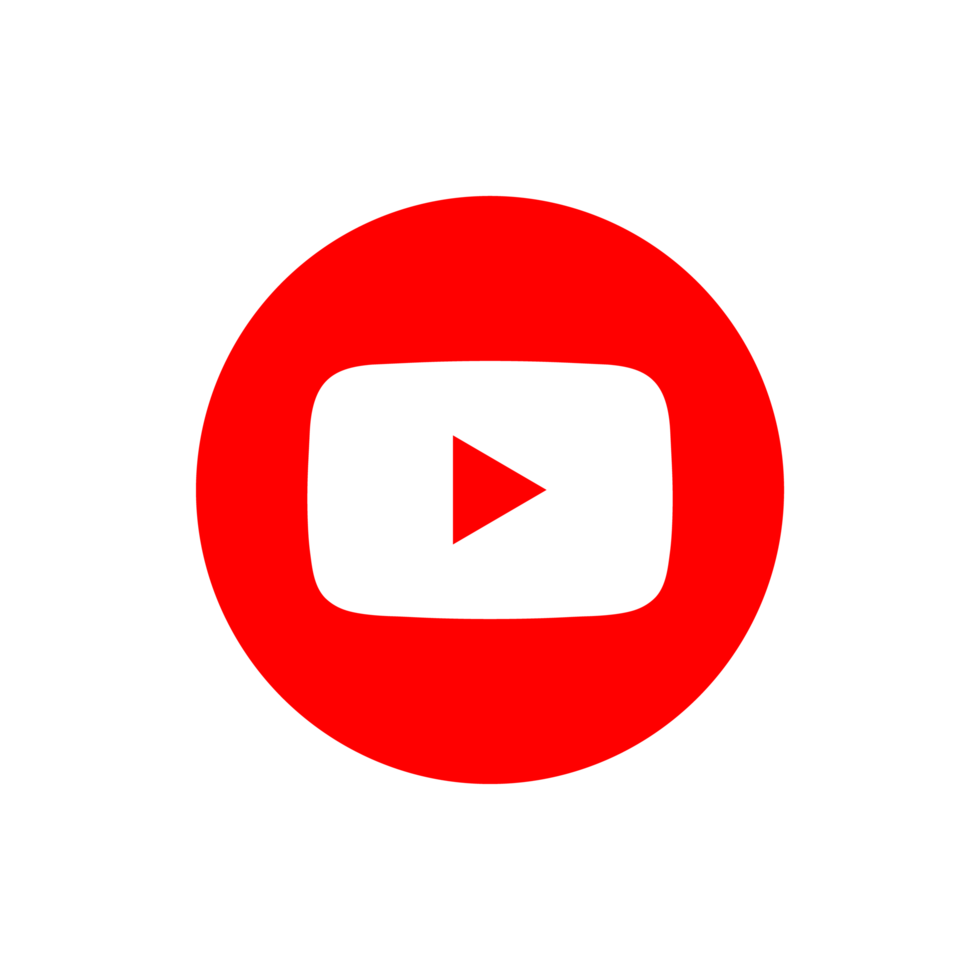
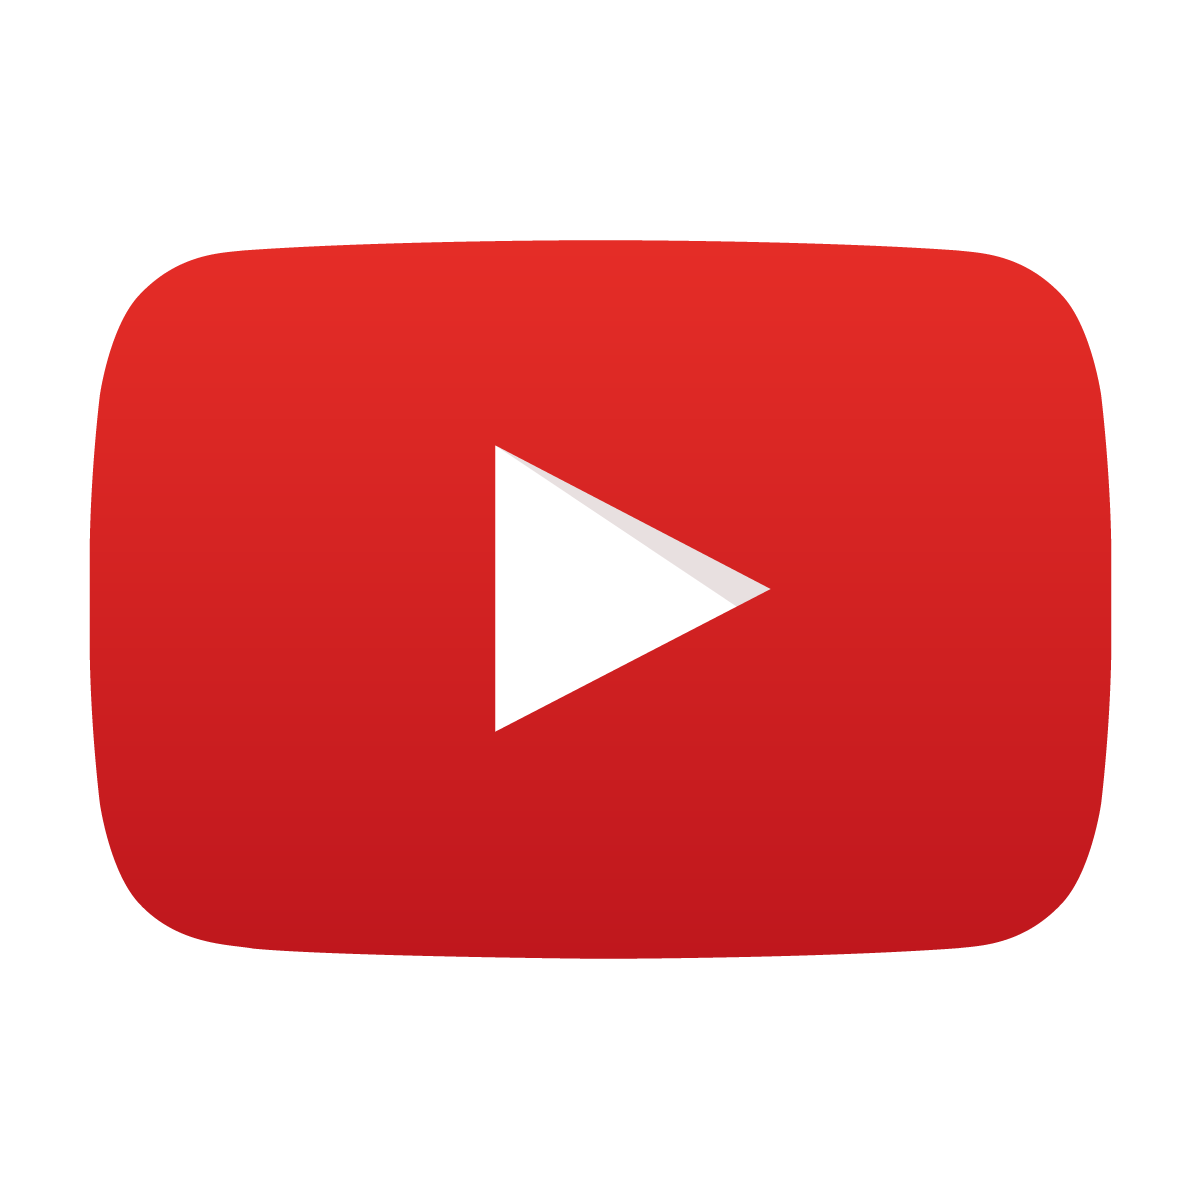
add crew

diff --git a/src/components/_team.jsx b/src/components/_team.jsx
@@ -5,7 +5,7 @@ function Team() {
 			<div className="team_section">
 				<h1>Meet the Team</h1>
 				<ul>
-					<li><h2>Director - Lucy Page</h2></li>
+					<li><h2>DIRECTOR - Lucy Page</h2></li>
 					<li><img
 						className="headshots"
 						src="assets/images/headshots/lucy-page-headshot.jpg"
@@ -14,27 +14,29 @@ function Team() {
 						<p>
 Lucy Page is a Los Angeles-based actress and first-time director, known for her fresh approach to filmmaking. With a background in acting, she brings emotional depth to her projects. As a director, Lucy focuses on authentic storytelling, collaborating closely with actors to create compelling, character-driven narratives.</p>
 					</li>
-					<li><h2>1st AD - Adelaide Johnson</h2></li>
+
+					<li><h2>PRODUCER – William Hurst</h2></li>
 					<li><img
 						className="headshots"
-						src="assets/images/headshots/adelaide-johnson-headshot.jpg"
-						alt="Adelaide Johnson"
+						src="assets/images/headshots/william-hurst-producer-headshot.jpg"
+						alt="William Hurst"
 						/>
 						<p>
-Adelaide Johnson is a skilled First Assistant Director based in Los Angeles. With extensive experience in coordinating film sets, she excels at managing schedules, ensuring smooth production flow, and fostering collaboration. Adelaide’s strong leadership and organizational skills make her an invaluable asset to any production, keeping projects on track.</p>
+William Hurst has Produced several DIY projects. “Needle in the Hay” will be the first for which he has crowdfunded and gathered together an entire, professional crew. His aim as a Producer is to work in such a way so all is taken care of, all fires are put out before they start, and everyone able to do their jobs well.
+</p>
 					</li>
 
-					<li><h2>Producer - Jeremiah Jordan</h2></li>
+					<li><h2>DIRECTOR OF PHOTOGRAPHY – Amelia Jauregui</h2></li>
 					<li><img
 						className="headshots"
-						src="assets/images/headshots/jeremiah-jordan-headshot.jpg"
-						alt="Jeremiah Jordan"
+						src="assets/images/icons/contacts.png"
+						alt="Amelia Jauregui"
 						/>
-						<p>
-Jeremiah Jordan is the founder of Top of the Bottom Entertainment, a Los Angeles-based production company. He produces digital content, hosts the TOTB Podcast, and works as a producer, director, and editor. Jeremiah is dedicated to creating engaging and insightful media while supporting creative talent through every project.</p>
+						<p>...more about Amelia here!
+						</p>
 					</li>
 
-					<li><h2>Director of Photography – Ken Howl</h2></li>
+					<li><h2>EDITOR – Ken Howl</h2></li>
 					<li><img
 						className="headshots"
 						src="assets/images/headshots/ken-howl-headshot.png"
@@ -47,17 +49,131 @@ passionate about creating content that supports equality, civil rights, and educ
 diverse array of public figures and organizations to deliver impactful media.</p>
 					</li>
 
-					<li><h2>Sound Engineer - Morgan Chan</h2></li>
+					<li><h2>1st ASSISTANT DIRECTOR - Adelaide Johnson</h2></li>
 					<li><img
 						className="headshots"
-						src="assets/images/headshots/morgan-chan-headshot.jpg"
-						alt="Morgan Chan"
+						src="assets/images/headshots/adelaide-johnson-headshot.jpg"
+						alt="Adelaide Johnson"
 						/>
 						<p>
-Morgan Chan is an experienced audio engineer based in Los Angeles. Specializing in sound design, mixing, and mastering, he has worked on various high-profile projects. With a keen ear for detail and technical expertise, Morgan ensures top-quality audio production, making him a trusted professional in the entertainment industry.</p>
+Adelaide Johnson is a skilled First Assistant Director based in Los Angeles. With extensive experience in coordinating film sets, she excels at managing schedules, ensuring smooth production flow, and fostering collaboration. Adelaide’s strong leadership and organizational skills make her an invaluable asset to any production, keeping projects on track.</p>
 					</li>
+
+					<li><h2>2nd ASSISTANT DIRECTOR - Shanti Herzog</h2></li>
+					<li><img
+						className="headshots"
+						src="assets/images/icons/contacts.png"
+						alt="Shanti Herzog"
+						/>
+						<p>
+...more about Shanti here!
+						</p>
+					</li>
+
+					<li><h2>SOUND ENGINEER - Oscar Aramburu</h2></li>
+					<li><img
+						className="headshots"
+						src="assets/images/icons/contacts.png"
+						alt="Oscar Aramburu"
+						/>
+						<p>
+...more about Oscar here!
+						</p>
+					</li>
+
+					<li><h2>KEY GRIP - Niki Orndahl</h2></li>
+					<li><img
+						className="headshots"
+						src="assets/images/icons/contacts.png"
+						alt="Niki Orndahl"
+						/>
+						<p>
+...more about Niki here!
+						</p>
+					</li>
+
+					<li><h2>GRIP - Diego Ramos</h2></li>
+					<li><img
+						className="headshots"
+						src="assets/images/icons/contacts.png"
+						alt="Diego Ramos"
+						/>
+						<p>
+...more about Diego here!
+						</p>
+					</li>
+
+
+					<li><h2>KEY PA - Raiah Sanders</h2></li>
+					<li><img
+						className="headshots"
+						src="assets/images/icons/contacts.png"
+						alt="Raiah Sanders"
+						/>
+						<p>
+...more about Raiah here!
+						</p>
+					</li>
+
+					<li><h2>PRODUCTION ASSISTANT - Emma Carter</h2></li>
+					<li><img
+						className="headshots"
+						src="assets/images/icons/contacts.png"
+						alt="Emma Carter"
+						/>
+						<p>
+...more about Emma here!
+						</p>
+					</li>
+
+					<li><h2>PRODUCTION ASSISTANT - Clara Ungaro</h2></li>
+					<li><img
+						className="headshots"
+						src="assets/images/icons/contacts.png"
+						alt="Clara Ungaro"
+						/>
+						<p>
+...more about Clara here!
+						</p>
+					</li>
+
+					<li><h2>BTS - Tevin Johnson</h2></li>
+					<li><img
+						className="headshots"
+						src="assets/images/icons/contacts.png"
+						alt="Tevin Johnson"
+						/>
+						<p>
+...more about Tevin here!
+						</p>
+					</li>
+
+					<li><h2>BTS - Ainsley Dobbs</h2></li>
+					<li><img
+						className="headshots"
+						src="assets/images/icons/contacts.png"
+						alt="Ainsley Dobbs"
+						/>
+						<p>
+...more about Ainsley here!
+						</p>
+					</li>
+
+					<li><h2>BTS - Sean Koffman</h2></li>
+					<li><img
+						className="headshots"
+						src="assets/images/icons/contacts.png"
+						alt="Sean Koffman"
+						/>
+						<p>
+...more about Sean here!
+						</p>
+					</li>
+
+{/** 
+**/}
 					<li><h1>Our Cast</h1></li>
-					<li><h2>Mickey Galie</h2></li>
+					<li><h2>Mickey Galie as GARY BLAYDE</h2></li>
 					<li><img
 						className="headshots"
 						src="assets/images/headshots/mickey-galie-headshot.JPG"
@@ -66,16 +182,7 @@ Morgan Chan is an experienced audio engineer based in Los Angeles. Specializing 
 						<p>
 Mickey Galie is a director and actor based in Los Angeles. With a background in film and television, Mickey has worked on multiple projects, including directing and acting in various productions. Known for his creativity and dedication, he brings a unique vision to both behind and in front of the camera.</p>
 					</li>
-					<li><h2>William Hurst</h2></li>
-					<li><img
-						className="headshots"
-						src="assets/images/headshots/william-hurst-headshot.jpg"
-						alt="William Hurst"
-						/>
-						<p>
-William Hurst is a versatile actor and filmmaker based in Los Angeles. With roles ranging from edgy heroes to quirky lovers, William has worked in film, theater, and web series. Also a writer and producer, he continues to develop projects while honing his craft through ongoing training and performance.</p>
-					</li>
-					<li><h2>Kelly Meyersfield</h2></li>
+					<li><h2>Kelly Meyersfield as JULIET MONTAGUE</h2></li>
 					<li><img
 						className="headshots"
 						src="assets/images/headshots/kelly-meyersfield-headshot.jpg"
@@ -84,6 +191,16 @@ William Hurst is a versatile actor and filmmaker based in Los Angeles. With role
 						<p>
 Kelly Meyersfield is an actress, singer, writer, and founder of the Professional and Musical Artists Workshop in Los Angeles. She has performed in films, theater, and comedy, while also mentoring aspiring performers. Kelly’s workshop provides valuable training in acting and performance, helping artists succeed in the entertainment industry.</p>
 					</li>
+
+					<li><h2>William Hurst as BRANDON MOORE</h2></li>
+					<li><img
+						className="headshots"
+						src="assets/images/headshots/william-hurst-headshot.jpg"
+						alt="William Hurst"
+						/>
+						<p>
+William Hurst is a versatile actor and filmmaker based in Los Angeles. With roles ranging from edgy heroes to quirky lovers, William has worked in film, theater, and web series. Also a writer and producer, he continues to develop projects while honing his craft through ongoing training and performance.</p>
+					</li>
 				</ul>
 			</div>
 		</>
@@ -91,3 +208,17 @@ Kelly Meyersfield is an actress, singer, writer, and founder of the Professional
 }
 
 export default Team;
+
+
+{/**
+					<li><h2>Producer - Jeremiah Jordan</h2></li>
+					<li><img
+						className="headshots"
+						src="assets/images/headshots/jeremiah-jordan-headshot.jpg"
+						alt="Jeremiah Jordan"
+						/>
+						<p>
+Jeremiah Jordan is the founder of Top of the Bottom Entertainment, a Los Angeles-based production company. He produces digital content, hosts the TOTB Podcast, and works as a producer, director, and editor. Jeremiah is dedicated to creating engaging and insightful media while supporting creative talent through every project.</p>
+					</li>
+**/}
+

diff --git a/src/App.jsx b/src/App.jsx
@@ -2,6 +2,7 @@ import { useState } from 'react'
 import './App.css'
 import Footer from './components/_footer.jsx'
 import Navigation from './components/_navigation.jsx'
+import Socials from './components/_socials.jsx'
 import Team from './components/_team.jsx'
 import Teaser from './components/_teaser.jsx'
 
@@ -15,9 +16,11 @@ function App() {
 		<div className="main_container">
       <h1 id="top">Needle in the Hay</h1>
 			<h2>A film about Addiction, Suicide, & Genius</h2>
-			<h3>Filming starts July 2025!</h3>
-			<h3>Crowd Funding starts June 2025</h3>
+			<h3>Filming wrapped July 28th, 2025!</h3>
+			<h3>Crowd Funding was Successful!</h3>
 			<Navigation />
+
+			<Socials />
 
 			<div className="splash_section">
 				<iframe 
@@ -29,11 +32,6 @@ function App() {
 					referrerpolicy="strict-origin-when-cross-origin" 
 					allowfullscreen>
 				</iframe>
-{/*				<img
-				src="assets/nith-placeholder.png"
-					alt="nith image"
-				/>
-*/}
 			</div>
 
 			<Teaser />

diff --git a/src/components/_socials.jsx b/src/components/_socials.jsx
@@ -1,0 +1,30 @@
+
+function Socials() {
+	return (
+		<>
+			<div className="socials">
+				<a href="https://instagram.com/needleinthehayfilm">
+					<img
+						className="social_icon_ig"
+						src="assets/images/socials/instagram.png"
+						alt="IG"
+					/>
+				</a>
+				<a href="https://youtube.com/@needleinthehayfilm">
+					<img
+						className="social_icon_youtube"
+						src="assets/images/socials/youtube.png"
+						alt="YouTube"
+					/>
+				</a>
+{/**				<img
+					className="social_icon"
+					src="#"
+					alt="tiktok"
+				/> **/}
+			</div>
+		</>
+	)
+}
+
+export default Socials;

diff --git a/src/App.css b/src/App.css
@@ -91,9 +91,18 @@ a.button {
 	flex-direction: column;
 	justify-content: center;
 }
-/*.splash_section img {
-	width: 50%;
-}*/
+.socials {
+	width: 100%;
+	max-height: 2em;
+	margin-bottom: 2em;
+}
+	.social_icon_ig {
+		margin: .2em;
+		width: 2.5em;
+	}
+	.social_icon_youtube {
+		width: 3em;
+	}
 .splash_section iframe {
 	width: 100%;
 	margin-bottom: 2em;
